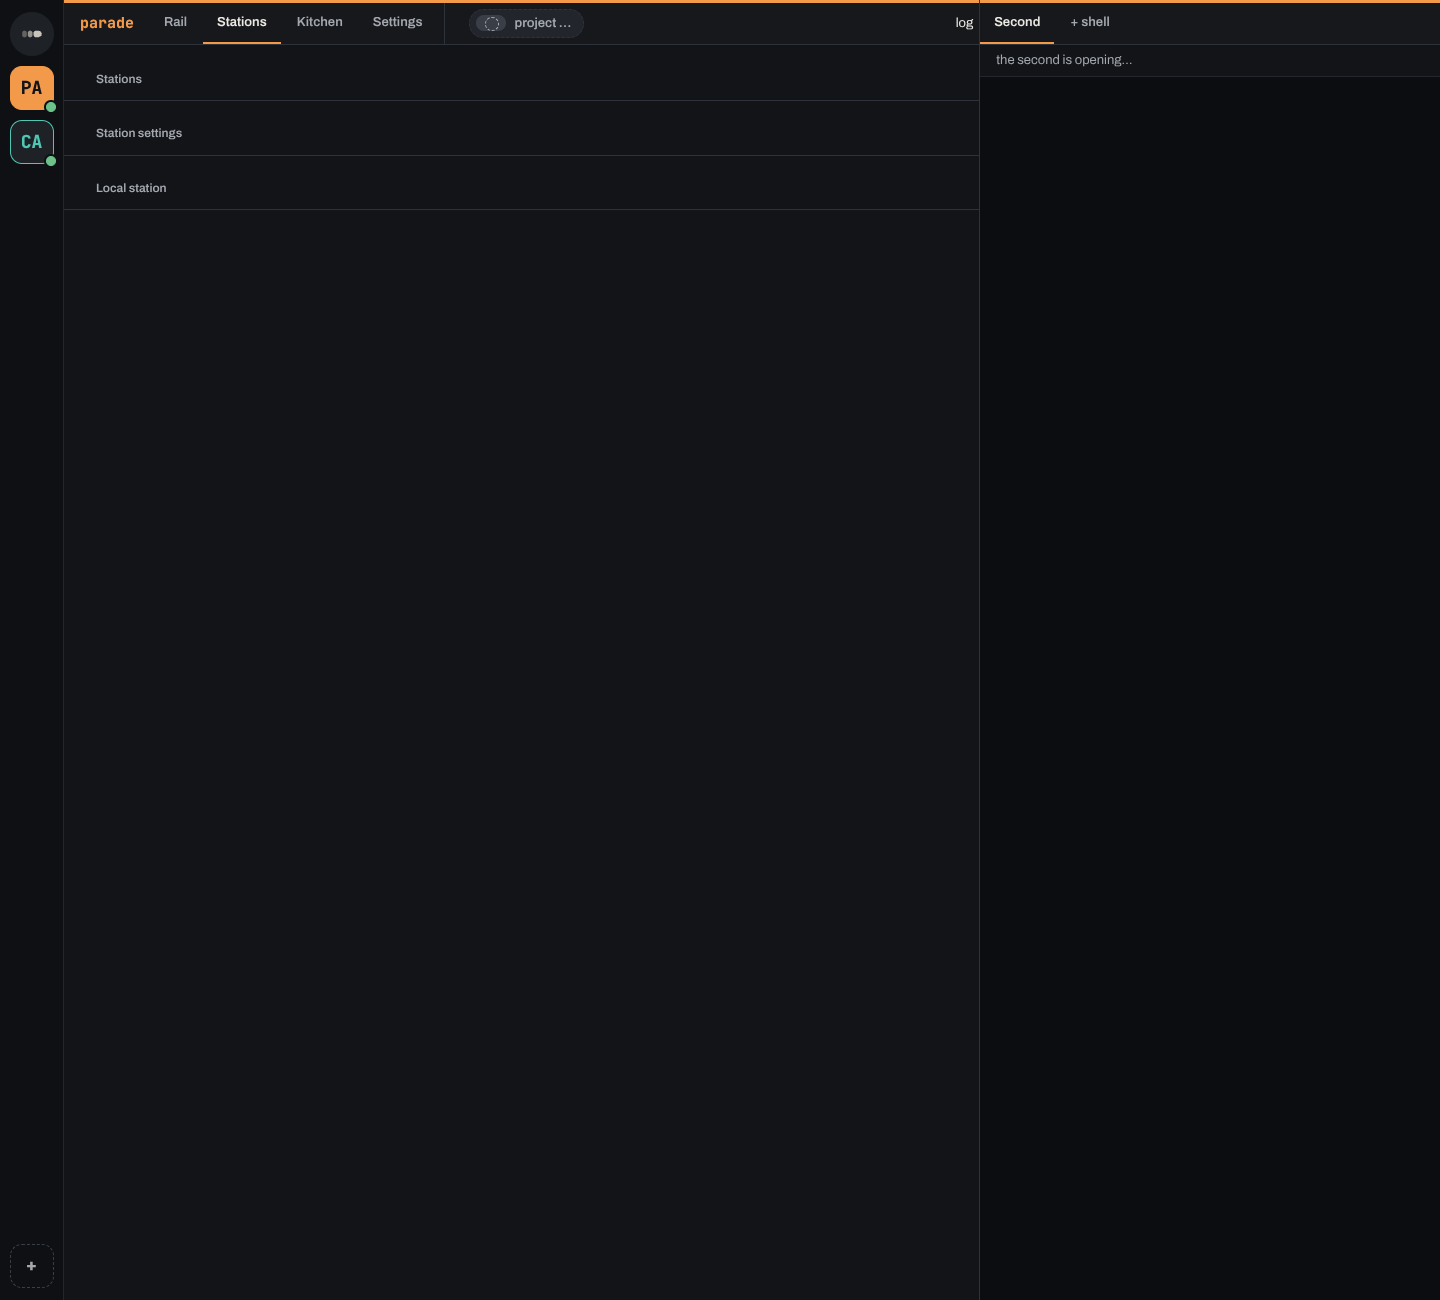
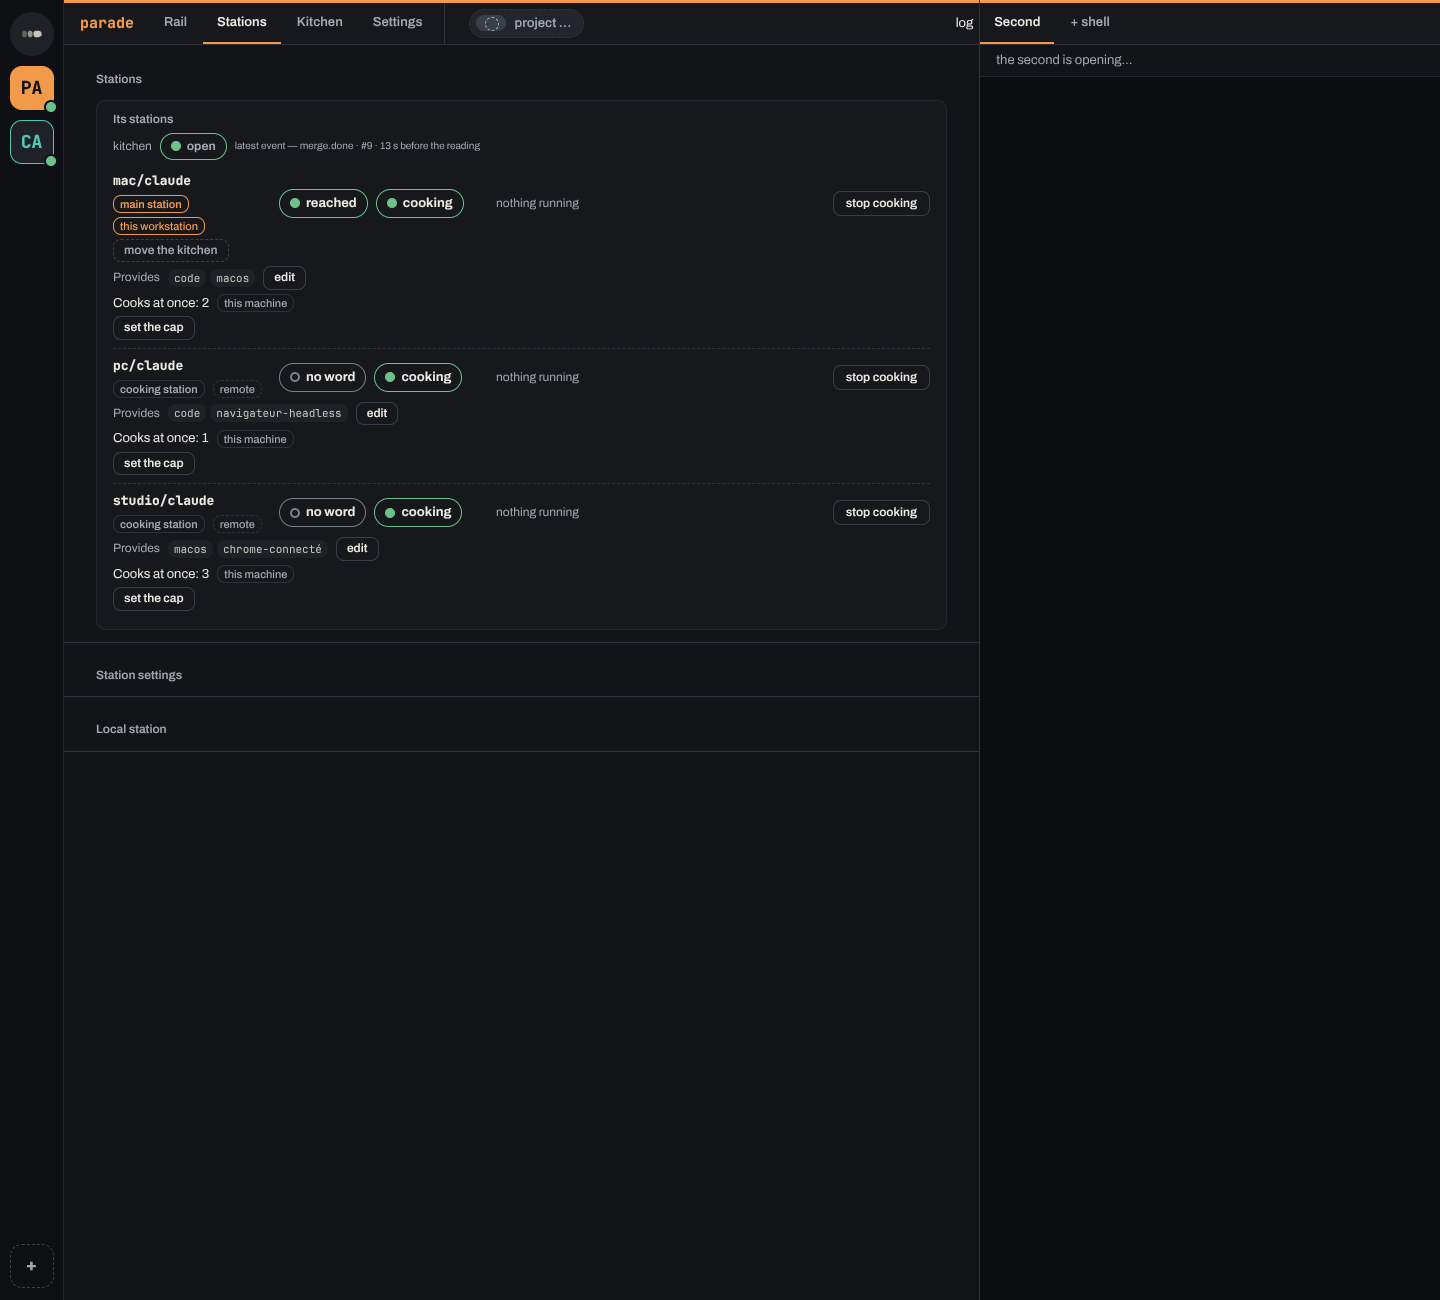
fix(#2488): rebase on main; Station settings sits under #2487's station list, its cards aligned on the list, the captures retaken on the base

diff --git a/app/src/vue/vue.css b/app/src/vue/vue.css
@@ -8322,23 +8322,21 @@ button.recommande {
 }
 /* Les réglages de chaque station, sur Stations (ticket 2488) : une carte par station — son nom et où elle tourne, puis
    ses quatre réglages, la même ligne que Settings : le nom et son niveau, la valeur en vigueur, le contrôle. « Save »
-   vient sous le plafond et les capacités, qu'il enregistre ; les deux cases s'écrivent seules. */
+   vient sous le plafond et les capacités, qu'il enregistre ; les deux cases s'écrivent seules. Les cartes s'alignent sur
+   la liste des stations, au-dessus (ticket 2487). */
 .reglages-station h3 {
   display: flex;
   align-items: center;
   gap: 6px;
 }
 .reglages-station > .vide {
-  margin: 6px 0 0;
+  margin: 6px 16px 0;
   font-style: italic;
   color: var(--discret);
 }
-#rail .station-reglee {
-  margin: 10px 0 0;
-  padding: 8px 16px 10px;
-  background: var(--bandeau);
-  border: 1px solid var(--trait-doux);
-  border-radius: var(--rayon-carte);
+/* La carte a l'allure du panneau « edit » de Cooks (plus haut) ; ici, sa marge l'aligne sur la liste. */
+#rail .reglages-station > .station-reglee {
+  margin: 10px 16px 0;
 }
 #rail .station-reglee h4 {
   display: flex;
